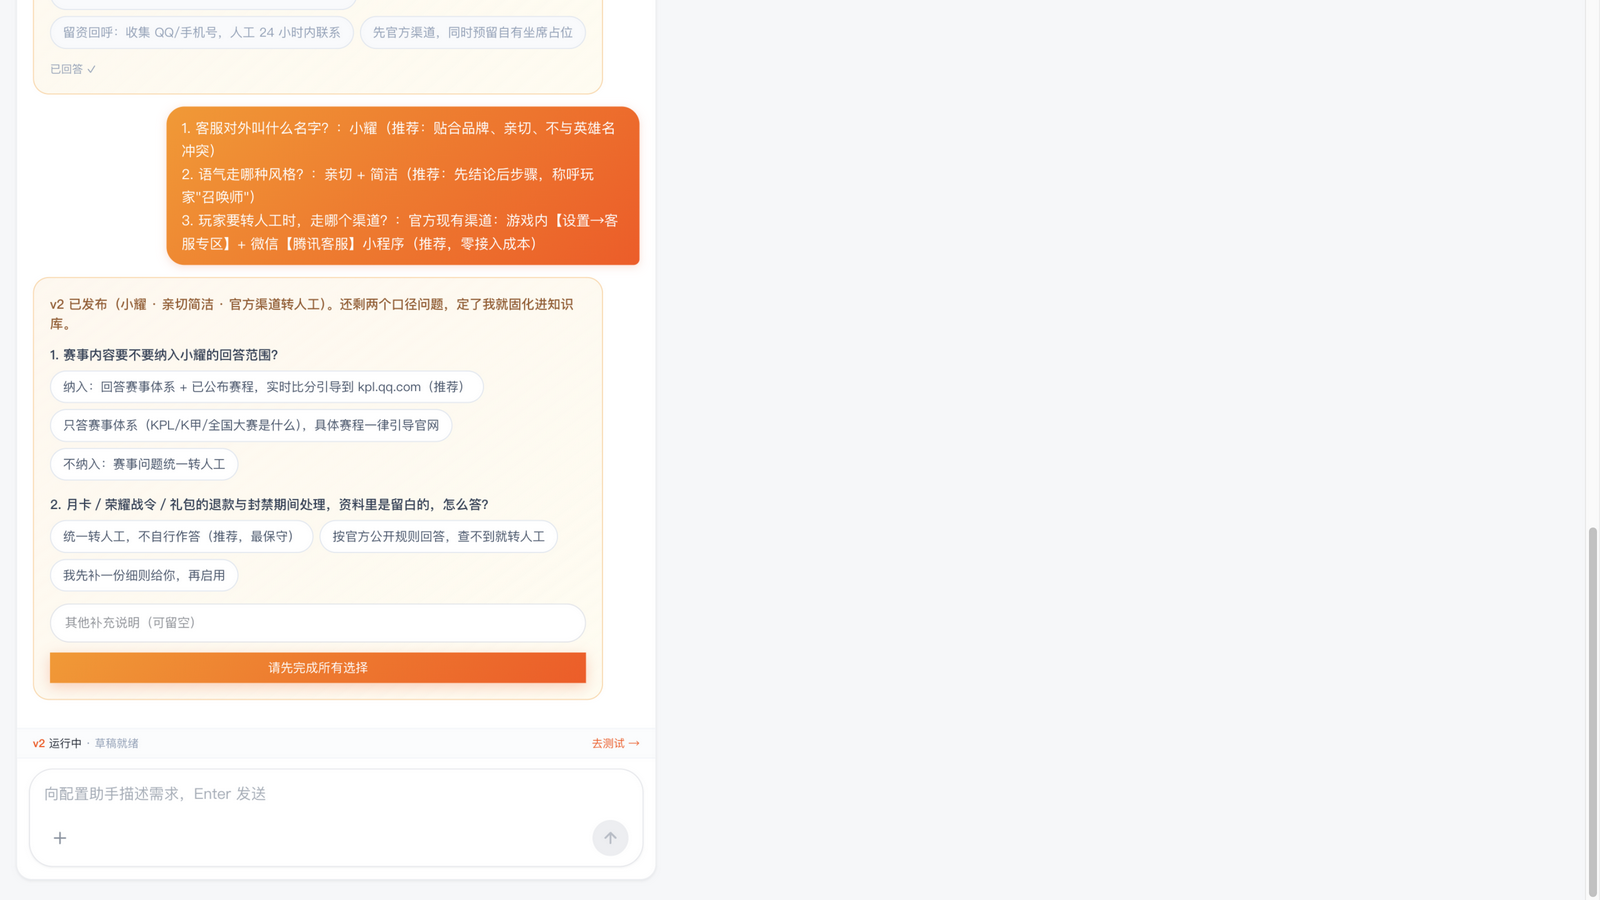
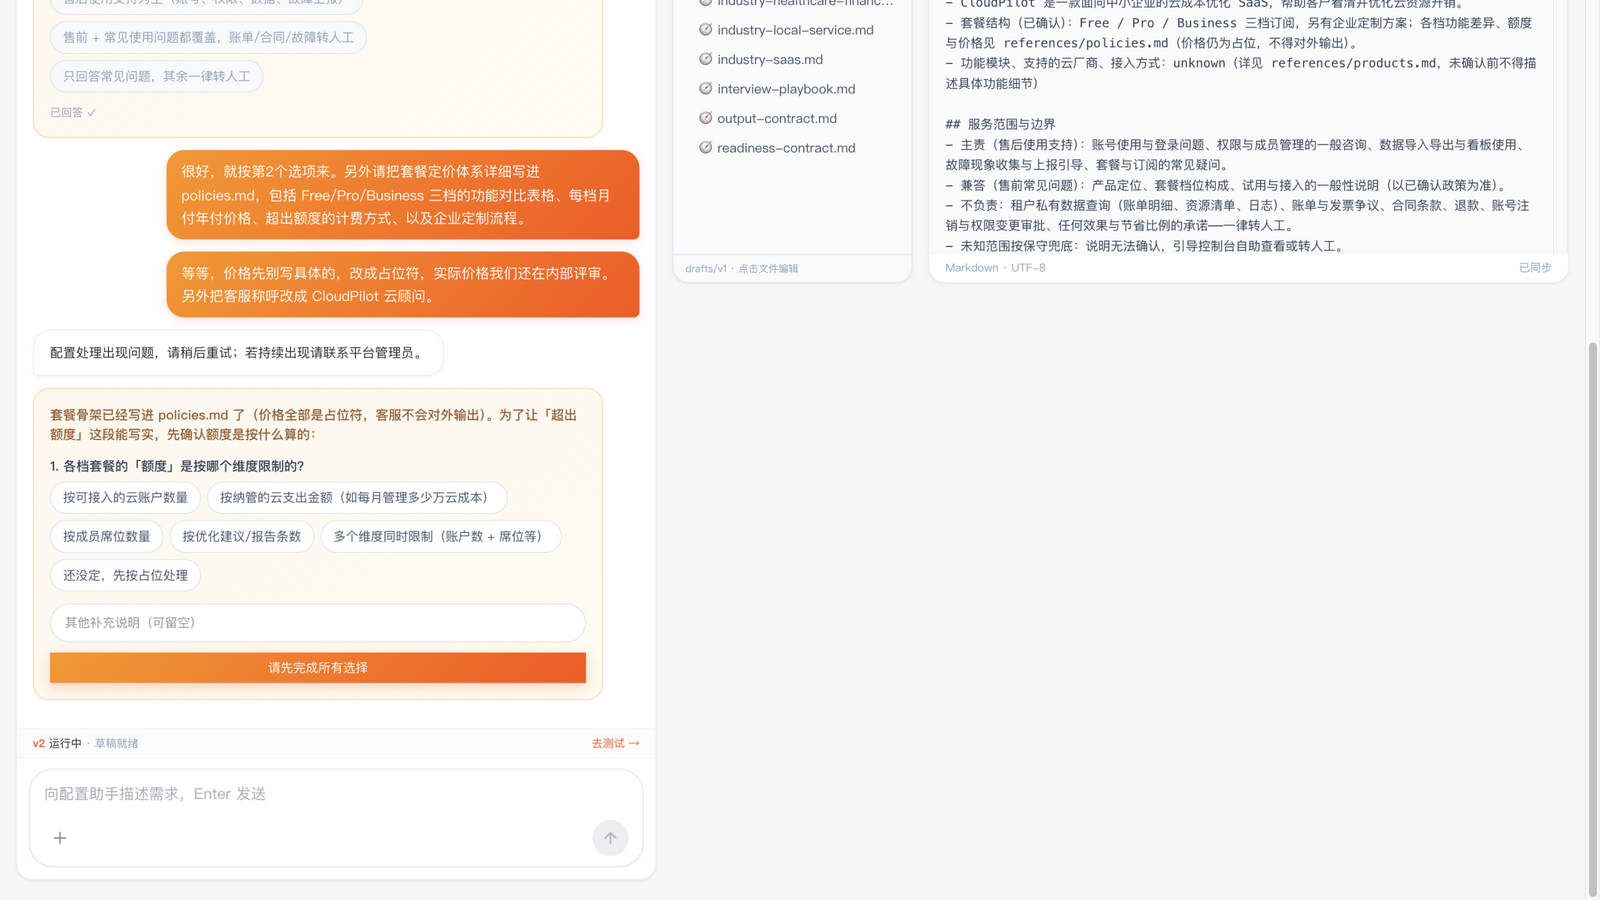
fix(test): 流式回复气泡去重 + 契约错误轨迹脱敏；截图导览更新
- 测试台流式气泡固化为正式气泡时按 key 去重，修复同回复渲染两遍
- ResponseContractError 轨迹只记角色与工具名，不再把内部纠错提示词
  泄漏到测试台错误事件（信息泄漏修复）
- 截图更新：04b 追问卡片（针对资料留白的第二轮 ask_user）、
  06 研究笔记在编辑器中打开（三栏 750px 等高修复）、07 重拍（v3 + web_search）

diff --git a/packages/agent/src/agent.ts b/packages/agent/src/agent.ts
@@ -145,13 +145,13 @@ export async function runRuntimeAgent(deps: RuntimeAgentDeps): Promise<ResponseO
     const trace = messages
       .slice(-8)
       .map((m) => {
-        const mm = m as { constructor: { name: string }; tool_calls?: { name: string }[]; content?: unknown; tool_call_id?: string };
+        const mm = m as { constructor: { name: string }; tool_calls?: { name: string }[]; tool_call_id?: string };
         const tc = mm.tool_calls?.map((t) => t.name).join(",") ?? "";
-        const c = typeof mm.content === "string" ? mm.content.slice(0, 80) : JSON.stringify(mm.content)?.slice(0, 80);
-        return `${mm.constructor.name}${tc ? "(" + tc + ")" : ""}${mm.tool_call_id ? "[toolres]" : ""}: ${c}`;
+        // 只记角色与工具名，不携带消息正文（内部提示词不得外泄到错误信息）
+        return `${mm.constructor.name}${tc ? "(" + tc + ")" : ""}${mm.tool_call_id ? "[toolres]" : ""}`;
       })
       .join(" | ");
-    throw new ResponseContractError(`模型多次未通过 response 工具输出回复；轨迹: ${trace}`);
+    throw new ResponseContractError(`模型多次未通过 response 工具输出回复（${trace}）`);
   }
   throw new ResponseContractError("模型多次未通过 response 工具输出回复");
 }

diff --git a/apps/web/src/pages/Configure.tsx b/apps/web/src/pages/Configure.tsx
@@ -275,7 +275,7 @@ function Workbench({ id }: { id: string }) {
   const showFiles = panelOpen ?? hasAgentActivity;
 
   const chatPanel = (
-    <div className={`card flex min-h-0 flex-col overflow-hidden ${showFiles ? "min-w-[420px]" : "mx-auto h-full w-full max-w-3xl"}`}>
+    <div className={`card flex min-h-0 flex-col overflow-hidden ${showFiles ? "min-w-[420px] h-[calc(100vh-150px)]" : "mx-auto h-full w-full max-w-3xl"}`}>
       <div className="flex items-center justify-between border-b border-slate-100 px-5 py-3">
         <div className="flex items-center gap-2.5">
           {!showFiles && <LogoMark size={30} />}

diff --git a/apps/web/src/pages/TestPlayground.tsx b/apps/web/src/pages/TestPlayground.tsx
@@ -117,7 +117,11 @@ function TestInner({ id }: { id: string }) {
       setRunning(false);
       setStreamTarget((st) => {
         if (st && st.text) {
-          setBubbles((prev) => [...prev, { key: st.key, role: "ai", content: st.text }]);
+          setBubbles((prev) =>
+            prev.some((b) => b.key === st.key)
+              ? prev.map((b) => (b.key === st.key ? { ...b, content: st.text } : b))
+              : [...prev, { key: st.key, role: "ai", content: st.text }],
+          );
         }
         return null;
       });
